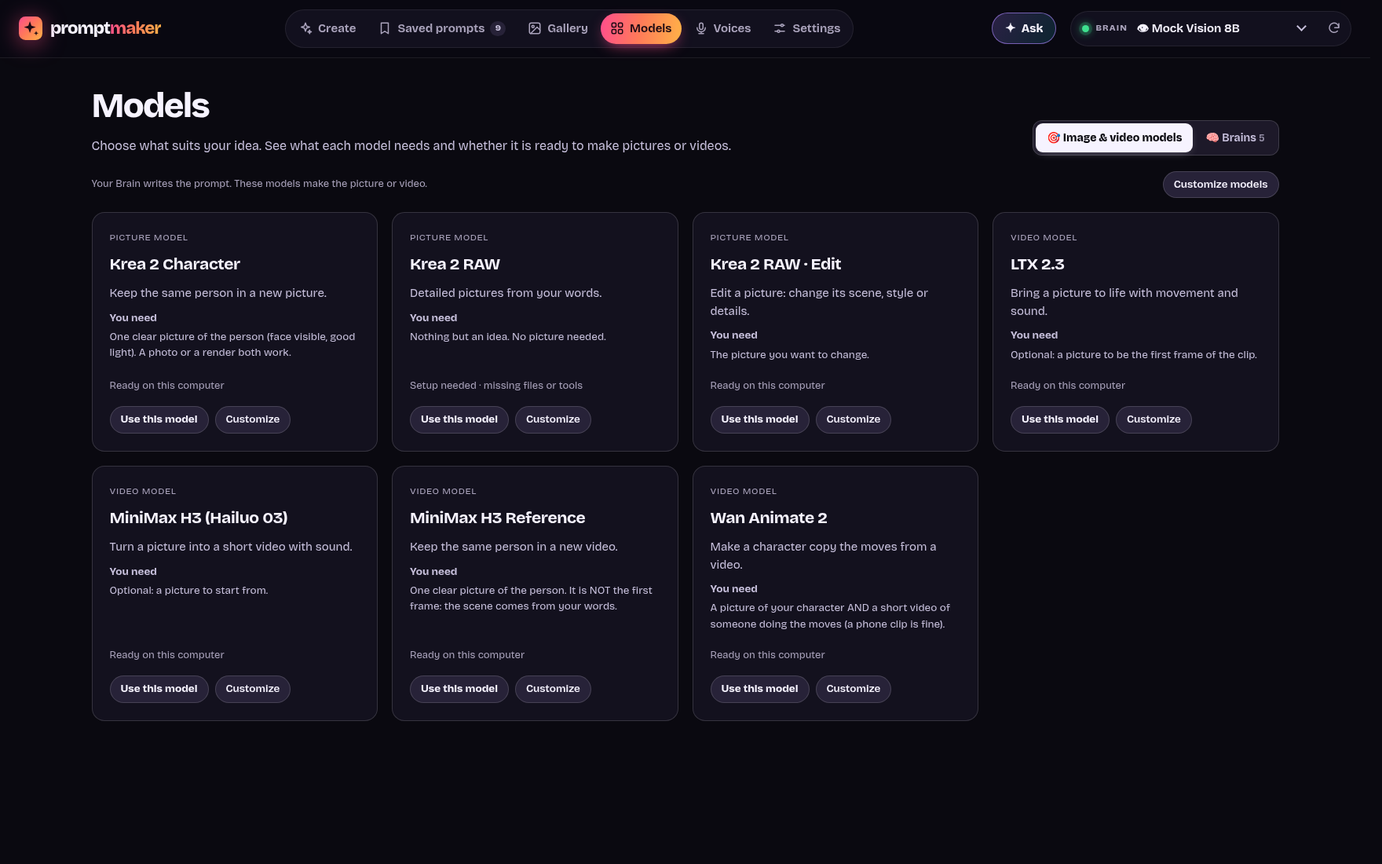
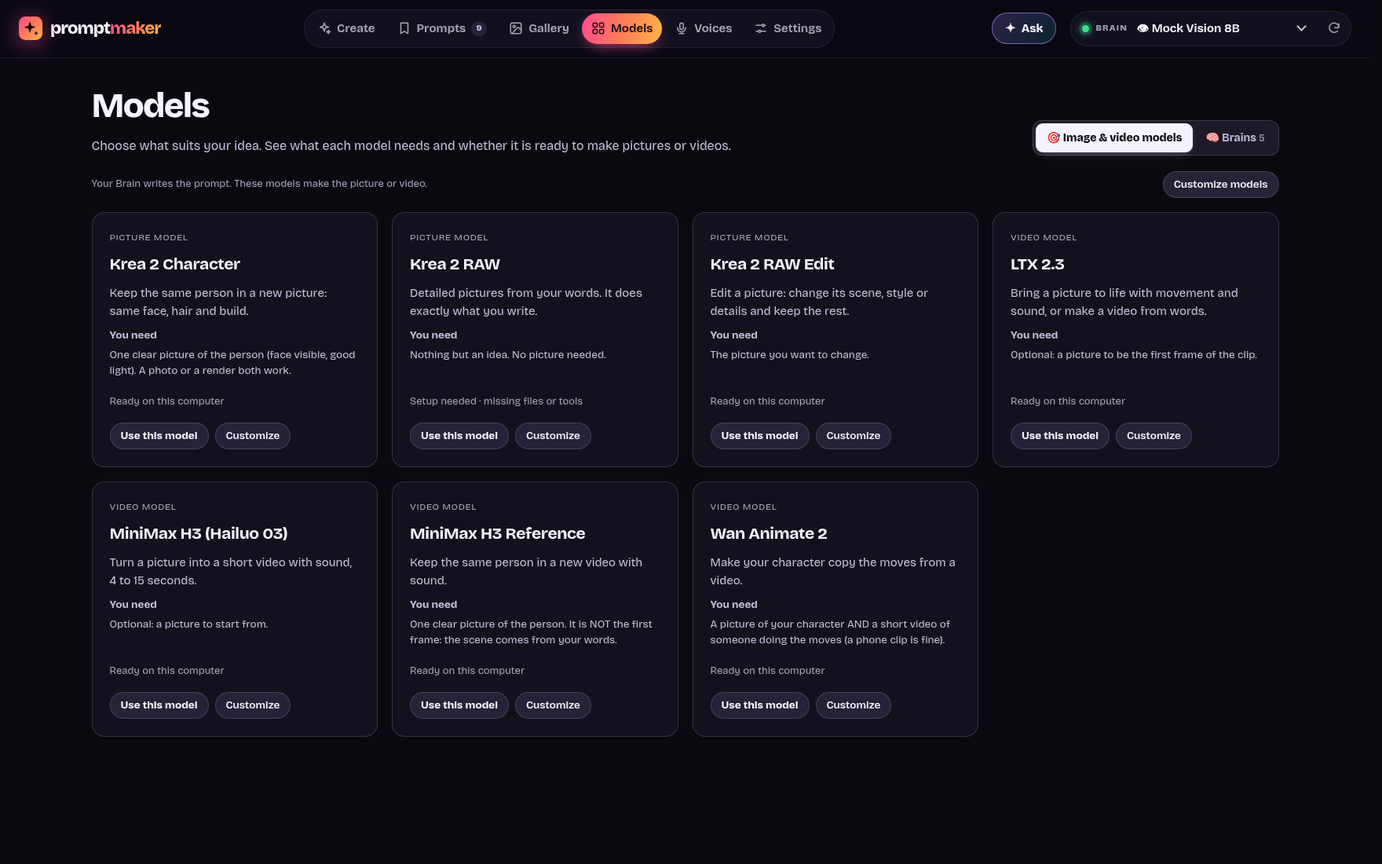
🎨 Creator UI, second pass: the idea field is in view on a laptop, Prompts in the top bar, playbooks carry their own words. The five tasks of step ① are one row of chips, the steps sit tighter and Review prompt first shares a line with its hint, so at 1280×800 the idea field ends above the sticky but

diff --git a/public/app.js b/public/app.js
@@ -1443,29 +1443,23 @@ const CREATIVE_TASKS = [
   { id: 'motion', label: 'Copy movement', prefer: 'wan-animate-2' },
   { id: 'video', label: 'Make a video', prefer: '' },
 ];
+// The task a model is for: its playbook says (task), else its inputs place it.
 function modelTask(m) {
+  if (CREATIVE_TASKS.some(t => t.id === m.task)) return m.task;
   if (m.motionVideo) return 'motion';
   if (m.characterSheet || m.imageRoles?.includes('character')) return 'person';
-  if (m.id === 'krea-2-raw-i2i') return 'edit';
-  if (m.kind === 'video') return ['ltx-2-3', 'minimax-h3'].includes(m.id) || workflowsFor(m.id).some(f => f.maps?.image) ? 'animate' : 'video';
+  if (m.kind === 'video') return workflowsFor(m.id).some(f => f.maps?.image) ? 'animate' : 'video';
   return workflowsFor(m.id).some(f => f.maps?.image) ? 'edit' : 'picture';
 }
-const modelPurpose = m => m.edited && m.description ? m.description : ({
-  'krea2-raw': 'Detailed pictures from your words.',
-  'krea-2-raw-i2i': 'Edit a picture: change its scene, style or details.',
-  'krea-2-character': 'Keep the same person in a new picture.',
-  'ltx-2-3': 'Bring a picture to life with movement and sound.',
-  'minimax-h3': 'Turn a picture into a short video with sound.',
-  'minimax-h3-ref': 'Keep the same person in a new video.',
-  'wan-animate-2': 'Make a character copy the moves from a video.',
-}[m.id] || m.description || `Make ${m.kind === 'video' ? 'videos' : 'pictures'} from your ideas.`);
-const modelDisplayName = m => m.id === 'krea-2-raw-i2i' && m.name === 'Krea 2 RAW i2i' ? 'Krea 2 RAW · Edit' : m.name;
+const modelPurpose = m => m.description || `Make ${m.kind === 'video' ? 'videos' : 'pictures'} from your ideas.`;
 function renderCreativeTask() {
   const m = currentModel();
   const task = m && modelTask(m);
-  $('#taskChoices').innerHTML = CREATIVE_TASKS.filter(t => state.models.some(x => modelTask(x) === t.id)).map(t =>
+  const box = $('#taskChoices');
+  const html = CREATIVE_TASKS.filter(t => state.models.some(x => modelTask(x) === t.id)).map(t =>
     `<button type="button" class="task-choice" data-task="${t.id}" aria-pressed="${task === t.id}">${t.label}</button>`).join('');
-  $('#chosenModel').textContent = m ? modelDisplayName(m) : 'Choose a model';
+  if (box.dataset.key !== html) { box.dataset.key = html; box.innerHTML = html; } // (redrawn only when it changes: a redraw drops keyboard focus)
+  $('#chosenModel').textContent = m ? m.name : 'Choose a model';
   if (!m) $('#modelChoice').open = true;
 }
 $('#taskChoices').addEventListener('click', e => {
@@ -1493,7 +1487,7 @@ function renderModelChips() {
   if (grid.dataset.key !== key) {
     grid.dataset.key = key;
     grid.innerHTML = state.models.map(m => `<button type="button" class="model-card" role="radio" data-id="${esc(m.id)}" style="--m:${modelColor(m)}" aria-label="${esc(`${m.name}, ${m.kind} model`)}" title="${esc(m.description)}">
-      <span class="mc-ico" aria-hidden="true">${kindIcon(m.kind)}</span><span class="mc-name">${esc(modelDisplayName(m))}</span><span class="mc-kind" aria-hidden="true">${esc(m.kind)}</span>
+      <span class="mc-ico" aria-hidden="true">${kindIcon(m.kind)}</span><span class="mc-name">${esc(m.name)}</span><span class="mc-kind" aria-hidden="true">${esc(m.kind)}</span>
     </button>`).join('');
   }
   // Update selection in place so keyboard focus stays on the card.
@@ -2895,7 +2889,7 @@ function renderReel() {
   empty.hidden = Boolean(items.length || jobs.length);
   if (empty.dataset.none !== `${none}${inGallery()}`) {
     empty.dataset.none = `${none}${inGallery()}`;
-    empty.innerHTML = none && inGallery() ? 'No renders yet. Attach a ComfyUI workflow to a model (Models tab), then hit <b>▶ Render</b> on any take: every picture and video lands here.'
+    empty.innerHTML = none && inGallery() ? 'No pictures or videos yet. On Create, describe your idea and press <b>Make image</b> (or <b>Write prompt</b>, then <b>▶ Render</b> on the take): everything you make lands here.'
       : none ? 'Every render you make lands here, newest first, and stays. Rate the good ones with the stars: ★ pretty good, ★★ very good, ★★★ excellent.'
       : 'Nothing matches these filters. <button type="button" class="btn small" data-reel="all">Show everything</button>';
   }
@@ -3007,7 +3001,7 @@ function reelTile(it) {
   $('.rt-cap span', cell).textContent = [it.entry.modelName, `take ${it.index + 1}`, it.render.seed != null && `seed ${it.render.seed}`, it.render.createdAt && madeOn(it.render.createdAt)].filter(Boolean).join(' · ');
   $('.rtile', cell).setAttribute('aria-label', `Open render: ${theme.slice(0, 80)}${rating ? `, rated ${RATINGS[rating].toLowerCase()}` : ''}. Shift and an arrow key move it.`);
   const hide = $('.rt-hide', cell);
-  hide.textContent = it.render.hidden ? 'Show in Create' : 'Hide from Create';
+  hide.innerHTML = it.render.hidden ? 'Show<span class="rt-hide-long"> in Create</span>' : 'Hide<span class="rt-hide-long"> from Create</span>'; // (the long form only where the tile has room)
   hide.title = it.render.hidden ? 'Show it in Create again' : 'Hide from Create only. It stays in Gallery and Saved prompts.';
   hide.setAttribute('aria-label', it.render.hidden ? 'Show in Create again' : 'Hide from Create');
   if (cell.dataset.rating !== String(rating)) {
@@ -4753,10 +4747,12 @@ function modelReadiness(m) {
   return 'Ready on this computer';
 }
 function renderModelCatalog() {
-  $('#modelCatalogGrid').innerHTML = state.models.map(m => {
+  const grid = $('#modelCatalogGrid');
+  const html = state.models.map(m => {
     const needs = m.guide?.youNeed || (m.motionVideo ? 'A character picture and a motion video.' : m.characterSheet ? 'A clear picture of your person.' : workflowsFor(m.id).some(f => f.maps?.image) ? 'A starting picture.' : 'Your idea in a few words.');
-    return `<article class="catalog-model" style="--m:${modelColor(m)}"><div class="catalog-kind">${m.kind === 'video' ? 'Video' : 'Picture'} model</div><h2>${esc(modelDisplayName(m))}</h2><p>${esc(modelPurpose(m))}</p><p class="catalog-needs"><b>You need</b> ${esc(needs)}</p><p class="catalog-ready">${esc(modelReadiness(m))}</p><div class="row"><button type="button" class="btn small primary" data-catalog-use="${esc(m.id)}">Use this model</button><button type="button" class="btn small" data-catalog-edit="${esc(m.id)}">Customize</button></div></article>`;
+    return `<article class="catalog-model" style="--m:${modelColor(m)}"><div class="catalog-kind">${m.kind === 'video' ? 'Video' : 'Picture'} model</div><h2>${esc(m.name)}</h2><p>${esc(modelPurpose(m))}</p><p class="catalog-needs"><b>You need</b> ${esc(needs)}</p><p class="catalog-ready">${esc(modelReadiness(m))}</p><div class="row"><button type="button" class="btn small primary" data-catalog-use="${esc(m.id)}">Use this model</button><button type="button" class="btn small" data-catalog-edit="${esc(m.id)}">Customize</button></div></article>`;
   }).join('');
+  if (grid.dataset.key !== html) { grid.dataset.key = html; grid.innerHTML = html; } // (redrawn only when it changes: ComfyUI's status comes in every few seconds while it's down)
 }
 $('#modelCatalogGrid').addEventListener('click', e => {
   const use = e.target.closest('[data-catalog-use]');
@@ -5012,7 +5008,7 @@ function fillModelForm(m, isNew) {
   $('#mRes').value = m.resolutions.join(', ');
   $('#mDur').value = m.durations.join(', ');
   $('#mMotion').checked = Boolean(m.motionVideo);
-  modelExtras = { imageRoles: m.imageRoles, comfyTemplates: m.comfyTemplates, characterSheet: m.characterSheet, sheetSection: m.sheetSection };
+  modelExtras = { imageRoles: m.imageRoles, comfyTemplates: m.comfyTemplates, characterSheet: m.characterSheet, sheetSection: m.sheetSection, task: m.task };
   refreshDefaultSelects(m.defaults);
   $('#dLen').value = m.defaults.length;
   $('#dTemp').value = m.defaults.temperature;
@@ -5045,6 +5041,7 @@ function readModelForm() {
     ...(motionVideo ? { motionVideo, imageRoles: roles?.includes('character') ? roles : ['character'] } : roles && (!roles.includes('character') || modelExtras.characterSheet) ? { imageRoles: roles } : {}),
     ...(modelExtras.characterSheet ? { characterSheet: true, ...(modelExtras.sheetSection ? { sheetSection: modelExtras.sheetSection } : {}) } : {}),
     ...(modelExtras.comfyTemplates?.length ? { comfyTemplates: modelExtras.comfyTemplates } : {}),
+    ...(modelExtras.task ? { task: modelExtras.task } : {}),
     id: state.editId || undefined,
     name: $('#mName').value.trim(),
     kind: $('#mKind').value,

diff --git a/public/app.css b/public/app.css
@@ -1528,10 +1528,10 @@ dialog.jobs-dlg { width: min(860px, calc(100vw - 32px)); }
 
 /* Creator workspace: the task and idea lead; model mechanics stay one click away. */
 .director { --bar-fade: 12px; box-shadow: none; }
-.director-steps { gap: 22px; }
-.step { gap: 12px; }
-.task-choices { display: grid; grid-template-columns: repeat(2, minmax(0, 1fr)); gap: 7px; }
-.task-choice { min-height: 42px; padding: 9px 12px; border: 1px solid var(--line-2); border-radius: 10px; background: transparent; text-align: left; font-size: 13.5px; font-weight: 650; }
+.director-steps { gap: 18px; }
+.step { gap: 10px; }
+.task-choices { display: flex; flex-wrap: wrap; gap: 6px; }
+.task-choice { min-height: 34px; padding: 6px 12px; border: 1px solid var(--line-2); border-radius: 999px; background: transparent; font-size: 13px; font-weight: 650; }
 .task-choice[aria-pressed="true"] { border-color: var(--hot); background: rgb(255 77 141 / 12%); }
 .task-choice:hover { background: var(--panel-3); }
 .model-choice > summary { display: flex; justify-content: space-between; gap: 10px; cursor: pointer; font-size: 13px; color: var(--text-2); }
@@ -1550,9 +1550,10 @@ dialog.jobs-dlg { width: min(860px, calc(100vw - 32px)); }
 .more-options > .dial { margin-top: 12px; }
 .more-options #sizeAuto { align-self: start; }
 #sizeSummary { margin: 0; }
-.review-choice { display: flex; gap: 9px; align-items: center; font-size: 13.5px; flex-basis: 100%; cursor: pointer; }
+.review-row { flex-basis: 100%; display: flex; flex-wrap: wrap; align-items: baseline; gap: 2px 12px; margin-bottom: 2px; }
+.review-choice { display: inline-flex; gap: 8px; align-items: center; font-size: 13.5px; white-space: nowrap; cursor: pointer; }
 .review-choice input { accent-color: var(--hot); width: 17px; height: 17px; }
-.outcome-hint { flex-basis: 100%; font-size: 12.5px; line-height: 1.4; color: var(--text-2); margin: 0 0 5px; }
+.outcome-hint { flex: 1 1 200px; font-size: 12.5px; line-height: 1.4; color: var(--muted); margin: 0; }
 .generate-bar { background: var(--panel-solid); border-top: 1px solid var(--line); padding-top: 12px; }
 .btn-generate { height: 50px; font-size: 17px; box-shadow: none; }
 .btn.primary { box-shadow: none; }
@@ -1587,7 +1588,10 @@ dialog.jobs-dlg { width: min(860px, calc(100vw - 32px)); }
 .reel-grid.selecting .reel-cell.picked::before { content: '✓'; background: var(--hot); color: var(--ink); display: grid; place-items: center; font-weight: 800; }
 .reel-grid.selecting .rate-slot, .reel-grid.selecting .rt-hide { display: none; }
 .reel-grid.selecting .rtile { cursor: pointer; }
-.rt-hide { font-size: 11.5px; }
+.rt-hide { font-size: 11.5px; max-width: calc(100% - 12px); overflow: hidden; text-overflow: ellipsis; white-space: nowrap; }
+/* "Hide from Create" where the tile has room, "Hide" on a small one */
+.reel-cell { container-type: inline-size; }
+@container (max-width: 150px) { .rt-hide-long { display: none; } }
 .hactions .open { background: var(--panel-3); color: var(--text); box-shadow: none; }
 .tabs button { padding-inline: 12px; }
 @media (max-width: 600px) {
@@ -1599,6 +1603,8 @@ body.narrow .create-switch { display: flex; }
 body.narrow #view-create:not(.show-results) .stage, body.narrow #view-create.show-results .director { display: none; }
 body.narrow .create { min-height: 0; }
 body.narrow .stage { max-height: none; }
+/* The switch is sticky, so what a switch scrolls to stops under it, not behind it. */
+body.narrow #stage, body.narrow #theme { scroll-margin-top: calc(var(--topbar-h, 76px) + var(--banner-h, 0px) + 70px); }
 .create-switch { position: sticky; top: calc(var(--topbar-h, 76px) + var(--banner-h, 0px)); z-index: 5; gap: 8px; padding: 10px 0; margin-bottom: 10px; background: var(--ink); }
 .create-switch button { min-height: 40px; flex: 1; }
 .create-switch button[aria-pressed="true"] { background: var(--panel-3); border-color: var(--hot); }
@@ -1606,6 +1612,7 @@ body.narrow .stage { max-height: none; }
   .create-switch { display: flex; }
   #view-create:not(.show-results) .stage, #view-create.show-results .director { display: none; }
   #view-create .stage { max-height: none; }
+  #stage, #theme { scroll-margin-top: calc(var(--topbar-h, 76px) + var(--banner-h, 0px) + 70px); }
 }
 @media (max-width: 760px) {
   .reel-filters { flex-wrap: wrap; overflow: visible; }

diff --git a/public/index.html b/public/index.html
@@ -25,7 +25,7 @@
       </button>
       <button type="button" data-view="history" aria-label="Saved prompts" title="Saved prompts">
         <svg viewBox="0 0 24 24" aria-hidden="true"><path d="M6 3h12v18l-6-4-6 4z"/></svg>
-        <span>Saved prompts</span><em id="historyBadge" class="badge" hidden></em>
+        <span>Prompts</span><em id="historyBadge" class="badge" hidden></em>
       </button>
       <button type="button" data-view="gallery" aria-label="Gallery" title="Gallery">
         <svg viewBox="0 0 24 24" aria-hidden="true"><rect x="3" y="3" width="18" height="18" rx="3"/><circle cx="9" cy="9" r="2"/><path d="m21 15-5-5L5 21"/></svg>
@@ -299,8 +299,10 @@
           </div>
 
           <div class="generate-bar">
-            <label class="review-choice" id="reviewChoice"><input type="checkbox" id="reviewFirst" checked> Review prompt first</label>
-            <p id="outcomeHint" class="outcome-hint"></p>
+            <div class="review-row">
+              <label class="review-choice" id="reviewChoice"><input type="checkbox" id="reviewFirst" checked> Review prompt first</label>
+              <p id="outcomeHint" class="outcome-hint"></p>
+            </div>
             <p id="genCost" class="gen-cost" hidden></p>
             <button type="submit" id="generateBtn" class="btn-generate">
               <span class="gen-spark" aria-hidden="true">✦</span><span id="genLabel">Write prompt</span><kbd>Ctrl ↵</kbd>

diff --git a/lib/store.js b/lib/store.js
@@ -344,6 +344,7 @@ function guide(g) {
   return out.bestFor || out.youNeed || out.steps.length || out.tryThese.length ? out : null;
 }
 
+const TASKS = ['picture', 'edit', 'person', 'animate', 'motion', 'video'];
 export function normalizeModel(input) {
   const kind = input.kind === 'video' ? 'video' : 'image';
   const name = String(input.name || '').trim();
@@ -363,6 +364,8 @@ export function normalizeModel(input) {
     id,
     name,
     kind,
+    // What a creator does with it, for step ①'s "What do you want to make?" (a model without one is placed by its inputs).
+    ...(TASKS.includes(input.task) ? { task: input.task } : {}),
     description: String(input.description || '').trim(),
     // The plain-words how-to under the model cards in step ①.
     ...(guide(input.guide) ? { guide: guide(input.guide) } : {}),

diff --git a/docs/guide.md b/docs/guide.md
@@ -39,7 +39,7 @@ The full manual for [Prompt Maker](../README.md): every page, setting and trick.
   - Uploading an image **matches the aspect ratio to it** automatically.
   - Each model remembers your last choices.
 - **🎥 Directed like a film shot.** Every prompt gets camera and light chosen for your theme's mood, not the same default every time: a shot size, a camera angle, a lens, the focus, a main light and a second one with where they come from, a contrast word ("low-key", "high contrast") and a composition ("leading lines", "frame within a frame"). Want a particular feel? One click on a **Look** under your theme: 🪟 Natural, 🕯 Intimate, ⚡ Powerful, 🌫 Lonely, 🫣 Suspense, 👻 Horror, 🕵 Noir, ☁ Dreamy, 📷 Gritty, 🏔 Epic or 💎 Luxury (video models get a camera move to match). Name a camera or light in your theme and it's kept. With a picture to 🎬 animate, its framing and light stay, and only the camera's movement is chosen.
-- **Takes.** Generate 1–4 variations at once. Each take deliberately goes a different way (angle, lighting, setting, moment).
+- **Variations.** Write 1–4 prompts at once. Each take deliberately goes a different way (angle, lighting, setting, moment).
 - **⏳ Queue.** No waiting for one to finish: while a prompt is cooking, **＋ Queue** (or `Ctrl+Enter`) lines up the next one, as many as you like. Each keeps the setup it was queued with, and its renders go on in ComfyUI while the next prompt is written.
 - **Refine.** Tell a take what to change ("golden hour", "add a dog", "shorter") or tap a quick chip. Every version is kept and you can page through them, and hand edits are saved as versions too.
 - **Live output.** Text streams in as it's written.
@@ -249,7 +249,7 @@ The **🎙 Voices** page makes speech on this computer, so the same person can s
 - **One-time setup.** Click **⬇ Install voices**: Prompt Maker fetches two speech models ([Qwen3-TTS](https://huggingface.co/Qwen/Qwen3-TTS-12Hz-1.7B-Base), Apache 2.0, about 9 GB) into its data folder and sets up the few packages they need, beside ComfyUI's own Python. ComfyUI's packages aren't changed, so nothing there can break. After that, voices work offline. A graphics card makes a line take a few seconds; without one it still works, slower.
 - **Describe a voice** in plain words (age, warmth, accent, pace, mood), give it a sentence, and **▶ Hear it**. Not it? Change the words and hear it again. Right? Name it and **💾 Keep this voice**. No real person is cloned: the voice is made from your description.
 - **Your voices** are listed with their description. **▶ Sample** plays the sentence they were made with; type any line in **Try a line** and **🗣 Say it** on a voice to hear it. **✏** renames, **🗑** deletes (it asks once).
-- **In a video** ([MiniMax H3](#target-models)): step ③ shows **🎙 Says a line**. If the picked workflow takes no line but one of the model's does (or the one that comes with the app), it offers **🎙 Use the one that does**: one click adds and picks it; the assistant's `set_line` does the same by itself. Then: pick the voice, write the line word for word. At **Generate** the line is said in that voice and the Brain writes the take around it; at **Render** the clip is the video's soundtrack, so the person in your picture says exactly those words, lips in time, and the video is made at least as long as the line. The line is saved with the prompt (Saved prompts puts it back; the full-screen view shows *Says*). A take with no line renders as before: the sound nodes are simply left out.
+- **In a video** ([MiniMax H3](#target-models)): step ③ shows **🎙 Says a line**. If the picked workflow takes no line but one of the model's does (or the one that comes with the app), it offers **🎙 Use the one that does**: one click adds and picks it; the assistant's `set_line` does the same by itself. Then: pick the voice, write the line word for word. When you create, the line is said in that voice and the Brain writes the take around it; at **Render** the clip is the video's soundtrack, so the person in your picture says exactly those words, lips in time, and the video is made at least as long as the line. The line is saved with the prompt (Saved prompts puts it back; the full-screen view shows *Says*). A take with no line renders as before: the sound nodes are simply left out.
 - **The assistant does it too:** *"make a new voice called Sam: a deep, calm narrator"* (`make_voice`), *"make her say 'Hello there' in Sam's voice"* (`set_line`). In a job, a `set_line` step before `generate` gives each cut its line, so a whole promo can run overnight: stills, the pick, the line, the video, the judge.
 - **Where it lives:** `voice/` in your data folder: the packages (`site/`), the models (`hf/`), your voices (`voices.json`) and their clips (`clips/`). Delete the folder to start over.
 
@@ -257,9 +257,9 @@ The **🎙 Voices** page makes speech on this computer, so the same person can s
 
 Two models keep the person in your picture instead of repainting the picture: **Krea 2 Character** (pictures) and **MiniMax H3 Reference** (video clips with sound, MiniMax's *ref2va*). Your picture only tells them *who*: the place, clothes, pose, camera and light come from your theme. There is no denoise to set.
 
-- **🧾 Character sheet.** Pick one of the two models and add a picture in step ③: a **Character sheet** box appears under it. At **Generate**, your Brain (one that sees images 👁) looks at the picture and writes the person's traits, one per line: age, face, eyes, eyebrows, nose, lips, skin, hair, facial hair, build, height and marks (freckles, moles, tattoos). Then every take carries **all** of them, in the sheet's words; a trait the Brain leaves out is added back by the app. It's saved with the prompt in Saved prompts.
-  - **Fix a line** by typing in the box (the Brain got the eye color wrong, say): the next Generate uses your sheet as it is.
-  - **↻** writes a fresh one from the picture at the next Generate. A new picture starts a new sheet.
+- **🧾 Character sheet.** Pick one of the two models and add a picture in step ③: a **Character sheet** box appears under it. When you create, your Brain (one that sees images 👁) looks at the picture and writes the person's traits, one per line: age, face, eyes, eyebrows, nose, lips, skin, hair, facial hair, build, height and marks (freckles, moles, tattoos). Then every take carries **all** of them, in the sheet's words; a trait the Brain leaves out is added back by the app. It's saved with the prompt in Saved prompts.
+  - **Fix a line** by typing in the box (the Brain got the eye color wrong, say): the next prompt uses your sheet as it is.
+  - **↻** writes a fresh one from the picture next time you create. A new picture starts a new sheet.
 - **🪪 Turnaround** (Krea 2 Character): one click renders the person on a plain background from the front, three-quarter, side and back, with a close-up of the face, and when it's done it becomes your picture in step ③ (the sheet stays). From then on every render reproduces them from all sides, and a full-body turnaround also lets the sheet name their build and height. It uses the workflow that comes with the model (or yours) in step ⑤.
 - **The workflows that come with these two models**:
   - **Krea 2 Character**: Krea 2 Turbo with the [Krea 2 Identity Edit](https://huggingface.co/conradlocke/krea2-identity-edit) LoRA, 10 steps, its likeness dial at 4. It needs the [comfyui-krea2edit](https://github.com/lbouaraba/comfyui-krea2edit) nodes (in ComfyUI: **Manager → Install Missing Custom Nodes**). The LoRA is under the Krea 2 Community License.
@@ -374,10 +374,10 @@ Some community fine-tunes come with a chat template that LM Studio can't fill in
 
 ### Saved prompts
 
-Everything you generate is saved automatically:
+**Prompts** in the top bar. Every prompt you write is saved automatically:
 
 - **Find things:** search themes and prompts, filter by model, or show only **Bookmarks**. The bookmark saves a prompt for reuse; stars in Gallery rate artwork.
-- **Pick up where you left off:** click a card to reopen it exactly as it was made: model, theme, image and its role, aspect, resolution, duration, length, temperature, takes and batch, plus how it was rendered (workflow, renders per take, seed and seed mode, LoRAs and their strengths, sampler settings). Keep refining, or Generate / Render again the same way. The card that's open on Create is ringed in Saved prompts, which scrolls to it.
+- **Pick up where you left off:** click a card to reopen it exactly as it was made: model, theme, image and its role, aspect, resolution, duration, length, temperature, takes and batch, plus how it was rendered (workflow, renders per take, seed and seed mode, LoRAs and their strengths, sampler settings). Keep refining, or write and render again the same way. The card that's open on Create is ringed in Saved prompts, which scrolls to it.
 - **Delete several at once.** **Ctrl**-click (**⌘** on a Mac) the cards, **Shift**-click to take every card up to the one you click, or drag a box across them from an empty spot (or with **Ctrl** held, from a card). Picked cards get a ✓ and a bar at the bottom says how many; **🗑 Delete** (twice: *Sure?*) or the **Delete** key deletes them all the way one Delete does, with one **↶ Undo** for all of them during the 8 seconds. **Esc**, **✕** or a click on an empty spot lets go; **Ctrl + A** picks every card shown.
 - **Delete gives you a few seconds to undo, then it's for good.** The first time, **Delete** opens **Delete it for good?**, which says what goes; tick **Don't show this again** and from then on it's **Delete**, then **Sure?** (**Settings → 🔒 Privacy check → Show it again** brings the warning back) (it says so when rated renders go too; a double click only asks, it doesn't confirm). Either way the card stays in place, dimmed, for 8 seconds with **↶ Undo** on it and in the toast, both counting down the seconds left; a render deleted from the full-screen view works the same way. After that, or when you close the page, it's gone. Deleting a card removes its prompts, its input image and motion video (unless another card, or a prompt waiting in line or being written, uses the same one), the clip of its spoken line, and its renders, along with ComfyUI's copies of them: the files in its output folder, the image and clip uploaded to its input folder, and the job (with your prompt in it) in ComfyUI's history. A render you made yourself in ComfyUI with the same prompt is yours and stays. If the Create form still shows the deleted card's theme, picture or motion video, it lets go of them too. Quotes of it in the assistant chat and in jobs become "[deleted]", and so do the lines in LM Studio's own server logs that quote the request and the answer, and any line in ComfyUI's log that names one of its files (both unless you switch that off in [Settings](#settings); LM Studio keeps those logs in its `.lmstudio/server-logs` folder, and when it runs on another computer, the toast says its logs there are out of reach). A video made from a deleted still keeps its own frame but loses the link and the still's prompt. On start-up, Prompt Maker also removes any render, image or video no Saved prompts card uses anymore; a picture or motion video still waiting in the Create form is never one of them.
 - **Shredded, not just removed.** Every file a delete takes (renders, pictures, videos, clips, ComfyUI's copies, and the copy of Saved prompts from before the delete) is written over three times, with zeros, ones and random bytes, each pass put on the disk before the next, then given a meaningless name and removed: the three passes of the DoD 5220.22-M wipe, so a recovery tool finds nothing. Honest limit: an SSD, and a file system that keeps old copies of blocks (Btrfs, ZFS, APFS), may hold the old bytes somewhere no program can reach; full-disk encryption covers that.
@@ -386,7 +386,7 @@ Everything you generate is saved automatically:
 
 | Keys | Action |
 |---|---|
-| `Ctrl` / `⌘` + `Enter` | Generate (while one is cooking: queue the next) |
+| `Ctrl` / `⌘` + `Enter` | The main button: write the prompt or make the image or video (while one is cooking: queue the next) |
 | `Tab` (first press) | **Skip to your results**: jumps past the steps |
 | `←` `→` on the model cards | Move between models (they are one Tab stop) |
 | `Esc` | Stop the current run (when a dialog, a menu or the assistant has it, it only closes that) |
@@ -411,7 +411,7 @@ Prompt Maker is great on its own. If you run [ComfyUI](https://github.com/comfya
 | Model | The workflow that comes with it |
 |---|---|
 | **Krea 2 RAW** | Text to image: Krea 2 RAW with Krea's turbo LoRA, 12 steps, about 1.5 megapixels. |
-| **Krea 2 RAW i2i** | Image to image: the same, starting from your picture. |
+| **Krea 2 RAW Edit** | Image to image: the same, starting from your picture. |
 | **Krea 2 Character** | Krea 2 Turbo with the Krea 2 Identity Edit LoRA, 10 steps ([more](#same-person-every-render)). Needs the comfyui-krea2edit nodes. |
 | **LTX 2.3** | ComfyUI's LTX 2.3 image-to-video template: two passes with the distilled LoRA and a 2× upscale, with sound. Its own prompt writer is taken out, so your prompt is used as written. |
 | **MiniMax H3** | ComfyUI's MiniMax H3 image-to-video template, 20 steps, with sound (its optional turbo LoRA left out), plus a Load Audio → Add Guide pair for a [🎙 spoken line](#voices); without a line those two nodes are left out. |
@@ -459,7 +459,7 @@ Step **⑤ Render it** on the Create page is your control center:
   - **how many** images or videos (any number up to 50),
   - **🔁 One prompt** (one prompt, rendered that many times with a new seed each) or **🔀 A different prompt each** (that many different prompts, each rendered once).
 
-  **Generate runs** picks what the next **Generate** does: no batch, one of your batches, or **all of them, one after another**. Each batch is its own run, with its own takes and its own Saved prompts entry, tagged 🎞 with its name (search Saved prompts by it). The button says what will happen and counts along while it renders. **■ Stop** (or `Esc`) cancels the rest and keeps what finished. **✕** deletes a batch (**↶ Undo** puts it back where it was, and keeps any batch you made or changed in the meantime). While a batch renders, Saved prompts cards can't be opened on Create, so the batch always renders its own takes. While a batch is picked, it decides the number of takes; a chain (step ⑥) has its own takes and renders, so Batch hides while you build one.
+  **Batch to make** picks what the main button does: no batch, one of your batches, or **all of them, one after another**. Each batch is its own run, with its own takes and its own Saved prompts entry, tagged 🎞 with its name (search Saved prompts by it). The button says what will happen and counts along while it renders. **■ Stop** (or `Esc`) cancels the rest and keeps what finished. **✕** deletes a batch (**↶ Undo** puts it back where it was, and keeps any batch you made or changed in the meantime). While a batch renders, Saved prompts cards can't be opened on Create, so the batch always renders its own takes. While a batch is picked, it decides the number of takes; a chain (step ⑥) has its own takes and renders, so Batch hides while you build one.
 
 Every take also has a **🎨 Render** bar:
 
@@ -608,7 +608,7 @@ Every render also appears in the **Gallery** tab. It *is* 🎞 Your renders, giv
 - Video tiles show a still of their first frame and play while you hover them.
 - **🎨 Rendering** in the top bar shows while anything renders, with how many are left. Click it for every render still going, from any take (also ones you moved off the stage, started in another tab, or before a reload): its live preview and progress, **Open** to bring its take back with live tiles, **✕ Cancel**, and **Cancel all**.
 - **If ComfyUI crashes mid-render** (it ran out of memory, say, or was closed), the render stops within seconds and says so: *ComfyUI stopped before this render finished*, instead of staying stuck at 0% · Starting… Close other big programs (games especially) and render again. A ComfyUI that is only too busy to answer (a heavy step can do that for minutes) is waited for: the render is given up only after 15 minutes without an answer.
-- **Many renders at once don't slow the page.** However many are going, Stop, Cancel, Generate and saving settings answer right away. **✕ Cancel** on a ×2–×4 render also stops the ones that hadn't started yet, whenever you click it.
+- **Many renders at once don't slow the page.** However many are going, Stop, Cancel, the main button and saving settings answer right away. **✕ Cancel** on a ×2–×4 render also stops the ones that hadn't started yet, whenever you click it.
 - **Renders survive a page reload.** A render keeps going in Prompt Maker's server if you reload or close the page; when the page comes back it shows the take again with the render still live. Only **✕ Cancel** on a running tile (or **■ Stop**) stops it. A chain or batch run is steered by the page, though: after a reload, the step that was rendering finishes, but the next ones don't start.
 - **Moved a render out of the renders folder?** (to sort your favorites into a folder of your own, say) It leaves the Gallery, Saved prompts, the takes and the pickers, with no blank tile, even if it's on screen when you move it. Put the file back and it shows again.
 
@@ -621,7 +621,7 @@ Seven models come with ready-made playbooks, researched from their official prom
 | Model | Type | Prompt style |
 |---|---|---|
 | **Krea 2 RAW** | Image | Dense, literal natural-language captions. Medium and shot first; skin texture and restrained color to avoid the "airbrushed" look. Its example prompts each frame and light the shot differently (from high above, from the floor, through a telephoto lens, film noir), so the Brain doesn't copy one camera into every prompt. |
-| **Krea 2 RAW i2i** | Image (image-to-image) | Krea 2 RAW changing a picture you give it: the caption describes the picture as it is, then states the one change you want and what stays. Its workflow (12 steps with Krea's turbo LoRA) comes with the app. Step ③'s **🎚 How much to change your picture** slider sets how far it goes ([Denoise](#denoise-image-to-image)). |
+| **Krea 2 RAW Edit** | Image (image-to-image) | Krea 2 RAW changing a picture you give it: the caption describes the picture as it is, then states the one change you want and what stays. Its workflow (12 steps with Krea's turbo LoRA) comes with the app. Step ③'s **🎚 How much to change your picture** slider sets how far it goes ([Denoise](#denoise-image-to-image)). |
 | **Krea 2 Character** | Image (same person) | Krea 2 with the Identity Edit LoRA: an instruction (*"Create a photo of this woman…"*), every trait of the [character sheet](#same-person-every-render), the new clothes, pose, camera and light, then "Preserve the exact facial identity and body". Its workflow comes with the app. |
 | **LTX 2.3** | Video + audio | One chronological paragraph: shot, subject, action beats, explicit camera, and ambience, sound effects and dialogue woven in. |
 | **MiniMax H3 (Hailuo 03)** | Video + audio | MiniMax's structured shooting-script format (`integrated_multimodal_description` / `overall_soundscape` / `non_diegetic_music`) with `[Shot N]` cuts and `(S1)` dialogue tags. |
@@ -899,7 +899,7 @@ Prompt Maker reads the motion video in your browser to show it and to take frame
 <details>
 <summary><b>"This workflow needs a motion video"</b></summary>
 
-The workflow has a *Load Video* node mapped as the motion video, but the take has none. On Create, add a motion video in step ③ (Wan Animate 2), then Generate again: the motion video is kept with each take.
+The workflow has a *Load Video* node mapped as the motion video, but the take has none. On Create, add a motion video in step ③ (Wan Animate 2), then create again: the motion video is kept with each take.
 </details>
 
 <details>

diff --git a/TODO.md b/TODO.md
@@ -23,6 +23,19 @@ and what "done" looks like; done items move to the bottom with the version that 
 
 ## Done
 
+- 1.37.1 — Creator UI, second pass: the idea field is in view on a laptop (task chips, tighter steps, the review
+  choice on one line); the top bar says Prompts (the page is still Saved prompts); each built-in playbook carries its
+  plain description and its task (step ①'s "What do you want to make?"), and the i2i model is Krea 2 RAW Edit, so
+  nothing about a model is hard-coded in the page; Hide from Create shortens to Hide on a small tile; the task chips
+  and the Models chooser redraw only when they change (no lost focus while ComfyUI is checked); on a narrow screen the
+  Create / Results switch no longer scrolls what it opens under itself; stale "Generate" wording in the guide and the
+  Gallery's empty text.
+- 1.37.0 — Creator UI: Create starts with "What do you want to make?" (five tasks pick the model; Change model, the
+  guide and the precise dials are folded); the main button says what it makes (Write prompt, Make 8 images, Run all
+  steps) with Review prompt first beside it; Create / Results switch when the form and the work can't sit side by side;
+  Ask starts closed; History is Saved prompts with bookmarks (stars stay for artwork); Gallery: Select → two →
+  Compare 2, Pin on the left, Filters folded on a phone; Models opens as a chooser (what it makes, what you need,
+  ready or not; Customize opens the editor).
 - 1.36.1 — The app-menu icon opened nothing for about a minute after 1.35.0: the launcher shredded the old on-disk
   browser profile before opening the window. The window opens at once now, and the shredding runs after it, in the
   background at low priority (one that was cut short goes at the next start).
